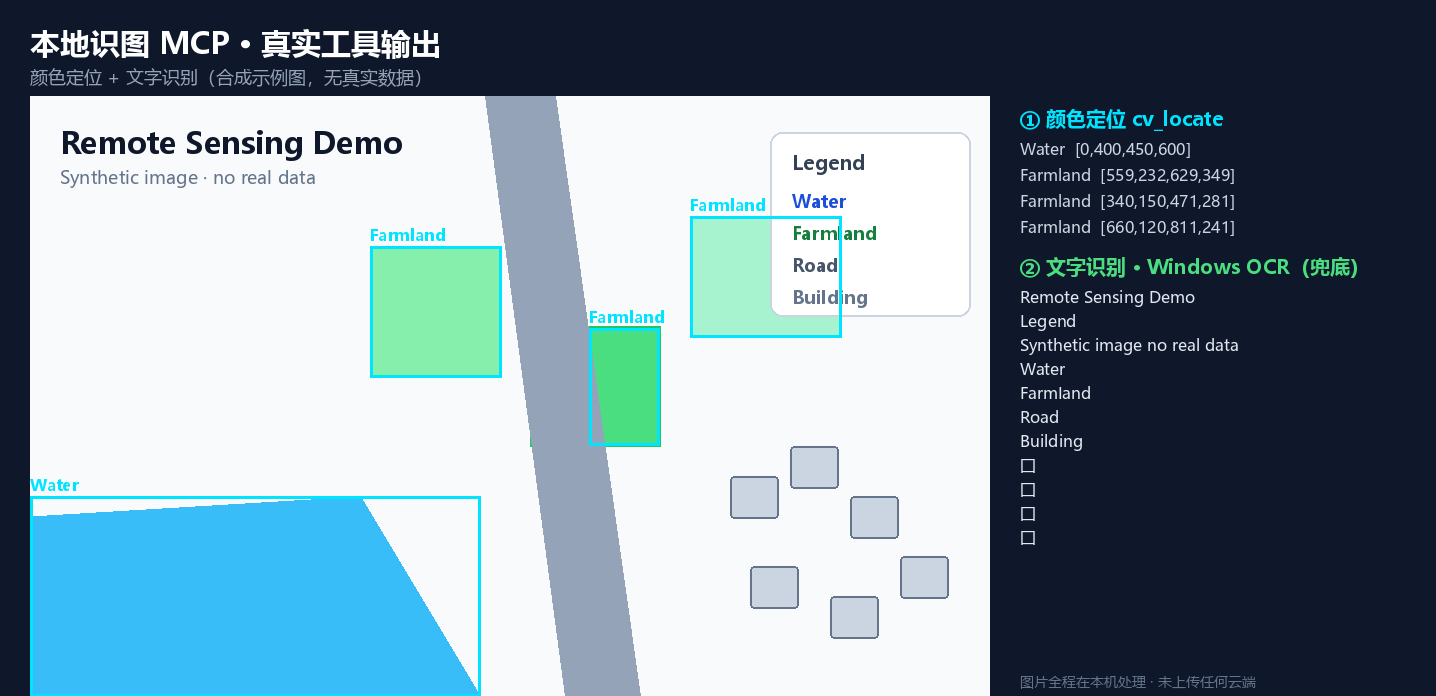
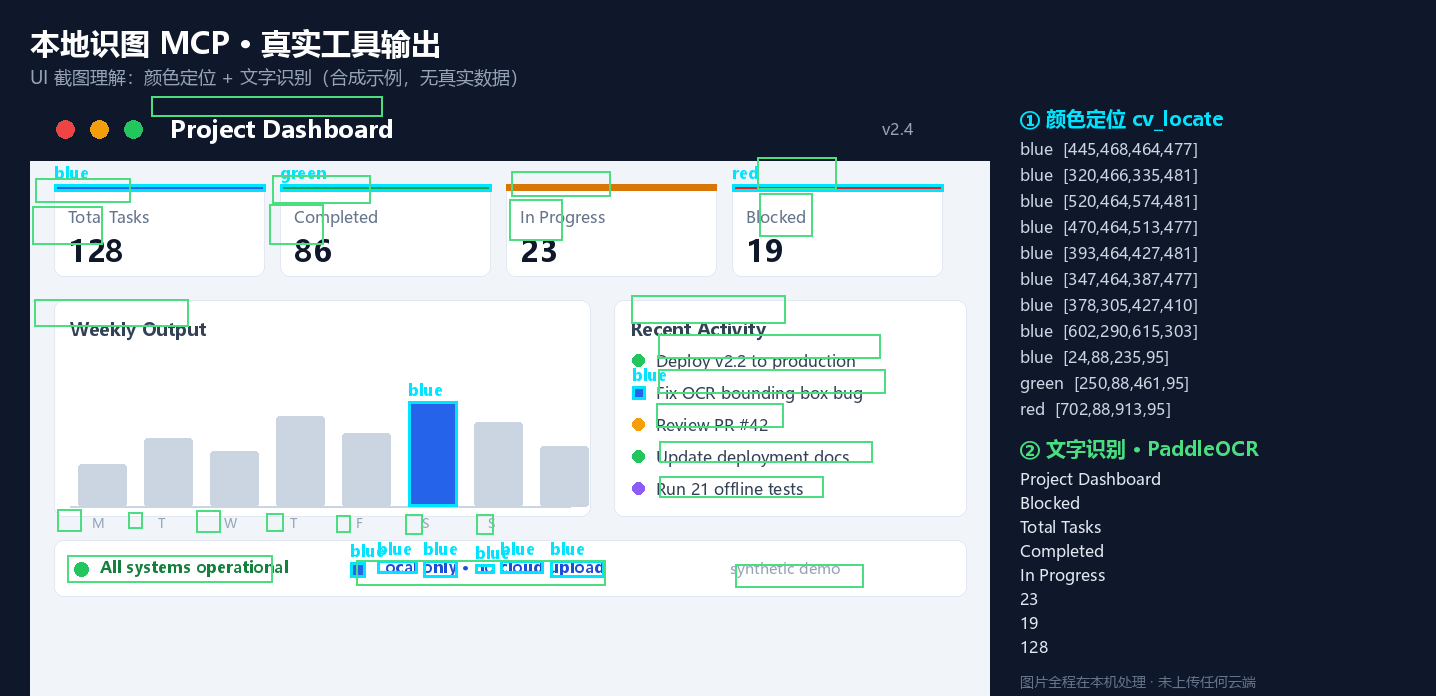
feat(examples): 演示图主题改为通用 UI 截图理解（看板截图+颜色定位+OCR），去掉遥感主题避免误导

diff --git a/examples/make_showcase_images.py b/examples/make_showcase_images.py
@@ -67,30 +67,61 @@ def draw_arrow(draw, x1, y1, x2, y2, color, width=4):
 # ============ 0. 合成示例图（无任何真实数据） ============
 def make_demo_input():
     W, H = 960, 600
-    img = Image.new("RGB", (W, H), "#f8fafc")
+    img = Image.new("RGB", (W, H), "#f1f5f9")
     d = ImageDraw.Draw(img)
-    # 水体（左下）
-    d.polygon([(0, 420), (330, 400), (450, 600), (0, 600)], fill="#38bdf8")
-    # 农田（右上区域）
-    d.rectangle([340, 150, 470, 280], fill="#86efac", outline="#4ade80", width=2)
-    d.rectangle([500, 230, 630, 350], fill="#4ade80", outline="#22c55e", width=2)
-    d.rectangle([660, 120, 810, 240], fill="#a7f3d0", outline="#4ade80", width=2)
-    # 道路（斜向灰色带）
-    d.polygon([(455, 0), (525, 0), (610, 600), (535, 600)], fill="#94a3b8")
-    # 建筑（右下小方块群）
-    for bx, by in [(700, 380), (760, 350), (820, 400), (720, 470), (800, 500), (870, 460)]:
-        d.rounded_rectangle([bx, by, bx + 48, by + 42], radius=4, fill="#cbd5e1", outline="#64748b", width=2)
-    # 图例框
-    d.rounded_rectangle([740, 36, 940, 220], radius=12, fill="#ffffff", outline="#cbd5e1", width=2)
-    d.text((762, 52), "Legend", font=font(FONT_BOLD, 20), fill="#334155")
-    legend = [("#1d4ed8", "Water"), ("#15803d", "Farmland"), ("#475569", "Road"), ("#64748b", "Building")]
-    ly = 92
-    for color, label in legend:
-        d.text((762, ly), label, font=font(FONT_BOLD, 18), fill=color)
-        ly += 32
-    # 标题
-    d.text((30, 26), "Remote Sensing Demo", font=font(FONT_BOLD, 30), fill="#0f172a")
-    d.text((30, 68), "Synthetic image · no real data", font=font(FONT_REG, 18), fill="#64748b")
+    # 窗口标题栏
+    d.rectangle([0, 0, W, 64], fill="#0f172a")
+    for i, c in enumerate(["#ef4444", "#f59e0b", "#22c55e"]):
+        d.ellipse([26 + i * 34, 24, 44 + i * 34, 42], fill=c)
+    d.text((140, 16), "Project Dashboard", font=font(FONT_BOLD, 24), fill="#ffffff")
+    d.text((852, 22), "v2.4", font=font(FONT_REG, 16), fill="#94a3b8")
+    # KPI 卡片（顶部色条 + 名称 + 数值）
+    cards = [
+        ("#2563eb", "Total Tasks", "128"),
+        ("#16a34a", "Completed", "86"),
+        ("#d97706", "In Progress", "23"),
+        ("#dc2626", "Blocked", "19"),
+    ]
+    cw, gap, cy = 210, 16, 88
+    for i, (accent, label, value) in enumerate(cards):
+        x = 24 + i * (cw + gap)
+        d.rounded_rectangle([x, cy, x + cw, cy + 92], radius=10, fill="#ffffff", outline="#e2e8f0", width=1)
+        d.rectangle([x, cy, x + cw, cy + 6], fill=accent)
+        d.text((x + 14, cy + 22), label, font=font(FONT_REG, 16), fill="#64748b")
+        d.text((x + 14, cy + 46), value, font=font(FONT_BOLD, 30), fill="#0f172a")
+    # 柱状图卡片
+    d.rounded_rectangle([24, 204, 560, 420], radius=10, fill="#ffffff", outline="#e2e8f0", width=1)
+    d.text((40, 220), "Weekly Output", font=font(FONT_BOLD, 18), fill="#334155")
+    bars = [42, 68, 55, 90, 73, 105, 84, 60]
+    bx0, bw, bgap = 48, 48, 18
+    for i, h in enumerate(bars):
+        x = bx0 + i * (bw + bgap)
+        d.rounded_rectangle([x, 410 - h, x + bw, 410], radius=3, fill=("#2563eb" if i == 5 else "#cbd5e1"))
+    d.line([(40, 410), (540, 410)], fill="#cbd5e1", width=2)
+    for i, day in enumerate("MTWTFSS"):
+        d.text((bx0 + i * (bw + bgap) + 14, 418), day, font=font(FONT_REG, 13), fill="#94a3b8")
+    # 活动列表卡片
+    d.rounded_rectangle([584, 204, 936, 420], radius=10, fill="#ffffff", outline="#e2e8f0", width=1)
+    d.text((600, 220), "Recent Activity", font=font(FONT_BOLD, 18), fill="#334155")
+    acts = [
+        ("#22c55e", "Deploy v2.2 to production"),
+        ("#2563eb", "Fix OCR bounding box bug"),
+        ("#f59e0b", "Review PR #42"),
+        ("#22c55e", "Update deployment docs"),
+        ("#8b5cf6", "Run 21 offline tests"),
+    ]
+    ay = 254
+    for color, text in acts:
+        d.ellipse([602, ay + 4, 614, ay + 16], fill=color)
+        d.text((626, ay), text, font=font(FONT_REG, 16), fill="#334155")
+        ay += 32
+    # 底部状态条
+    d.rounded_rectangle([24, 444, 936, 500], radius=10, fill="#ffffff", outline="#e2e8f0", width=1)
+    d.ellipse([44, 466, 58, 480], fill="#22c55e")
+    d.text((70, 460), "All systems operational", font=font(FONT_BOLD, 16), fill="#15803d")
+    d.ellipse([320, 466, 334, 480], fill="#2563eb")
+    d.text((346, 460), "Local only · no cloud upload", font=font(FONT_BOLD, 16), fill="#1d4ed8")
+    d.text((700, 462), "synthetic demo", font=font(FONT_REG, 15), fill="#94a3b8")
     out = EXAMPLES / "demo_input.png"
     img.save(out)
     return str(out)
@@ -100,9 +131,9 @@ def make_demo_input():
 def make_demo_annotated():
     demo_input = make_demo_input()
 
-    # 真实调用：cv_locate 颜色定位（水体蓝 / 农田绿）
+    # 真实调用：cv_locate 颜色定位（KPI 卡片色条）
     locate_boxes = []
-    for color, tag in (("#38bdf8", "Water"), ("#4ade80", "Farmland")):
+    for color, tag in (("#16a34a", "green"), ("#dc2626", "red")):
         r = server.call_cv_locate(
             {"file_path": demo_input, "mode": "color", "color": color, "tolerance": 28}
         )
@@ -143,7 +174,7 @@ def make_demo_annotated():
 
     # 顶部标题条
     d.text((30, 22), "本地识图 MCP · 真实工具输出", font=font(FONT_BOLD, 30), fill="#ffffff")
-    d.text((30, 64), "颜色定位 + 文字识别（合成示例图，无真实数据）", font=font(FONT_REG, 18), fill="#94a3b8")
+    d.text((30, 64), "UI 截图理解：颜色定位 + 文字识别（合成示例，无真实数据）", font=font(FONT_REG, 18), fill="#94a3b8")
 
     # 左侧：原图 + 标注框
     off_y = head_h
